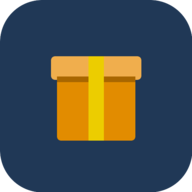
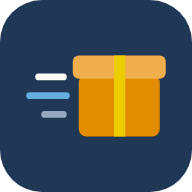
Ícono final: caja en camino

diff --git a/src/pages/Inicio.tsx b/src/pages/Inicio.tsx
@@ -61,9 +61,7 @@ export function Inicio() {
     <main className="flex flex-col gap-6 pt-5 pb-2">
       <header className="flex items-center justify-between px-5">
         <div className="flex items-center gap-2">
-          <span className="flex size-8 items-center justify-center rounded-[9px] bg-naranja-500 text-marino-500">
-            <Icono nombre="caja" tamano={19} grosor={2.2} />
-          </span>
+          <img src={`${import.meta.env.BASE_URL}favicon.svg`} alt="" className="size-8" />
           <span className="font-display text-xl font-extrabold tracking-tight">Preordi</span>
         </div>
         <Link to="/config" aria-label="Configuración" className="-mr-2 flex size-11 items-center justify-center rounded-full">

diff --git a/docs/preordi-especificacion.md b/docs/preordi-especificacion.md
@@ -478,7 +478,7 @@ Igual que en Sobres y Teleo:
 - Es el **mismo dibujo que las pantallas de arranque de iOS** (`apple-touch-startup-image` en `public/splash/`), así el paso de una a la otra no se nota.
 - `aria-hidden="true"`. Con "reducir movimiento" activado, el pulso se desactiva por la regla global de `index.css`.
 - Componente: `components/organisms/PantallaCarga.tsx`, montado en `App.tsx` fuera de las rutas.
-- Fondo propuesto: `marino-500`, el mismo del ícono. Se define junto con el ícono final.
+- Fondo: `marino-500`, el mismo del ícono final.
 
 ---
 
@@ -630,7 +630,12 @@ Igual que en Sobres:
 - **Áreas táctiles** de al menos 44 px.
 
 ### 10.8 Ícono de la app
-Una caja sencilla, sin personaje: caja naranja con cinta amarilla sobre fondo marino. Se usa en el ícono de instalación, la pantalla de carga (8.10), los splash de iOS y los estados vacíos. Hay una versión provisional en `public/` (`favicon.svg` y los PNG).
+**Caja en camino** (elegida entre 20 opciones): caja de frente, naranja con tapa naranja clara y cinta amarilla, con tres rayas de velocidad a la izquierda (papel, celeste y gris azulado) sobre fondo marino. Se usa en el ícono de instalación, el logo de Inicio, la pantalla de carga (8.10) y los splash de iOS.
+
+- `public/favicon.svg`: el dibujo maestro (cuadrado redondeado, rx 112 de 512); también es el logo de Inicio.
+- `pwa-192.png` y `pwa-512.png`: el mismo dibujo con esquinas redondeadas y fondo transparente.
+- `apple-touch-icon.png` (180): a sangre, sin esquinas, porque iOS las recorta.
+- `pwa-maskable-512.png`: a sangre y con el dibujo al 82 % para que quepa en la zona segura de Android.
 
 ### 10.9 Refinamiento visual (fase 7)
 
@@ -697,12 +702,10 @@ Avance: Inicio ✅ · Detalle ✅ · Preórdenes ✅ · Deseos ✅ · pantallas 
    - Componentes pasados a los tokens semánticos de 10.4 ✅ (el modo oscuro ya funciona con la clase `.dark`; falta activarlo según el sistema, en la fase 8)
 6. **Imágenes y respaldo** ✅: compresión, IndexedDB y `.zip`
 7. **Refinamiento visual (10.9)** ✅: revisar el diseño general para que se sienta más natural, con más carácter y menos "generado con IA"; va antes del pulido PWA porque el ícono, la pantalla de carga y los splash dependen de la dirección visual que salga de acá
-8. **Pulido PWA:** modo oscuro con selector de tema (10.4) ✅, ícono final, pantalla de carga (8.10) y splash de iOS, y prueba de instalación en el teléfono
+8. **Pulido PWA:** modo oscuro con selector de tema (10.4) ✅, ícono final ✅, pantalla de carga (8.10) y splash de iOS, y prueba de instalación en el teléfono
 9. **Publicar:** agregar al hub `index`
 
 ---
 
 ## 12. Pendientes por decidir
 - ~~Dirección visual del refinamiento (10.9)~~ → Vitrina ✅
-- Diseño final del ícono (caja)
-- Fondo de la pantalla de carga y de los splash de iOS (junto con el ícono final)
